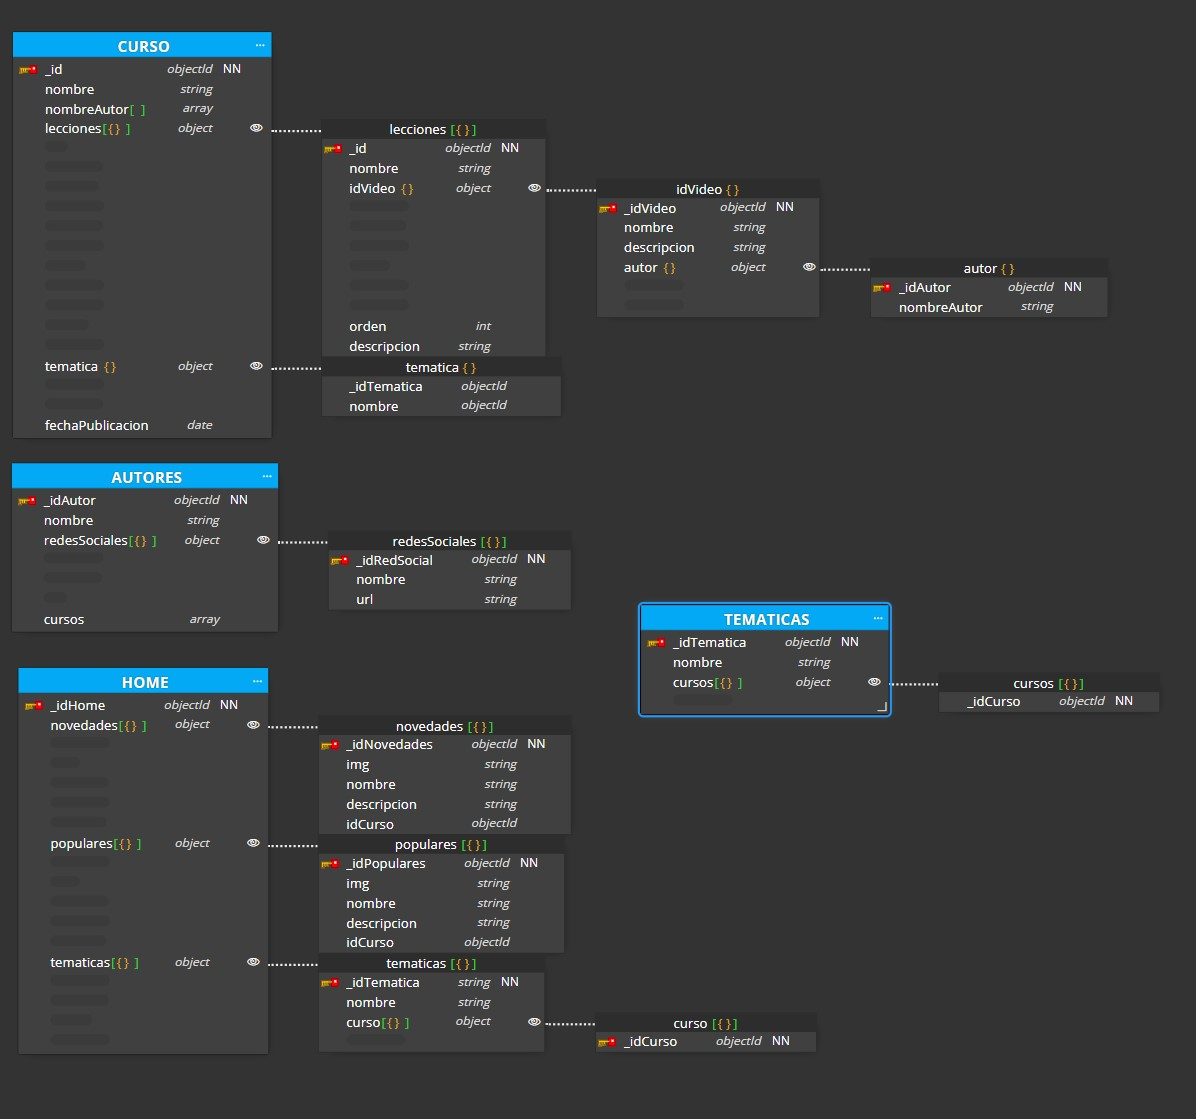
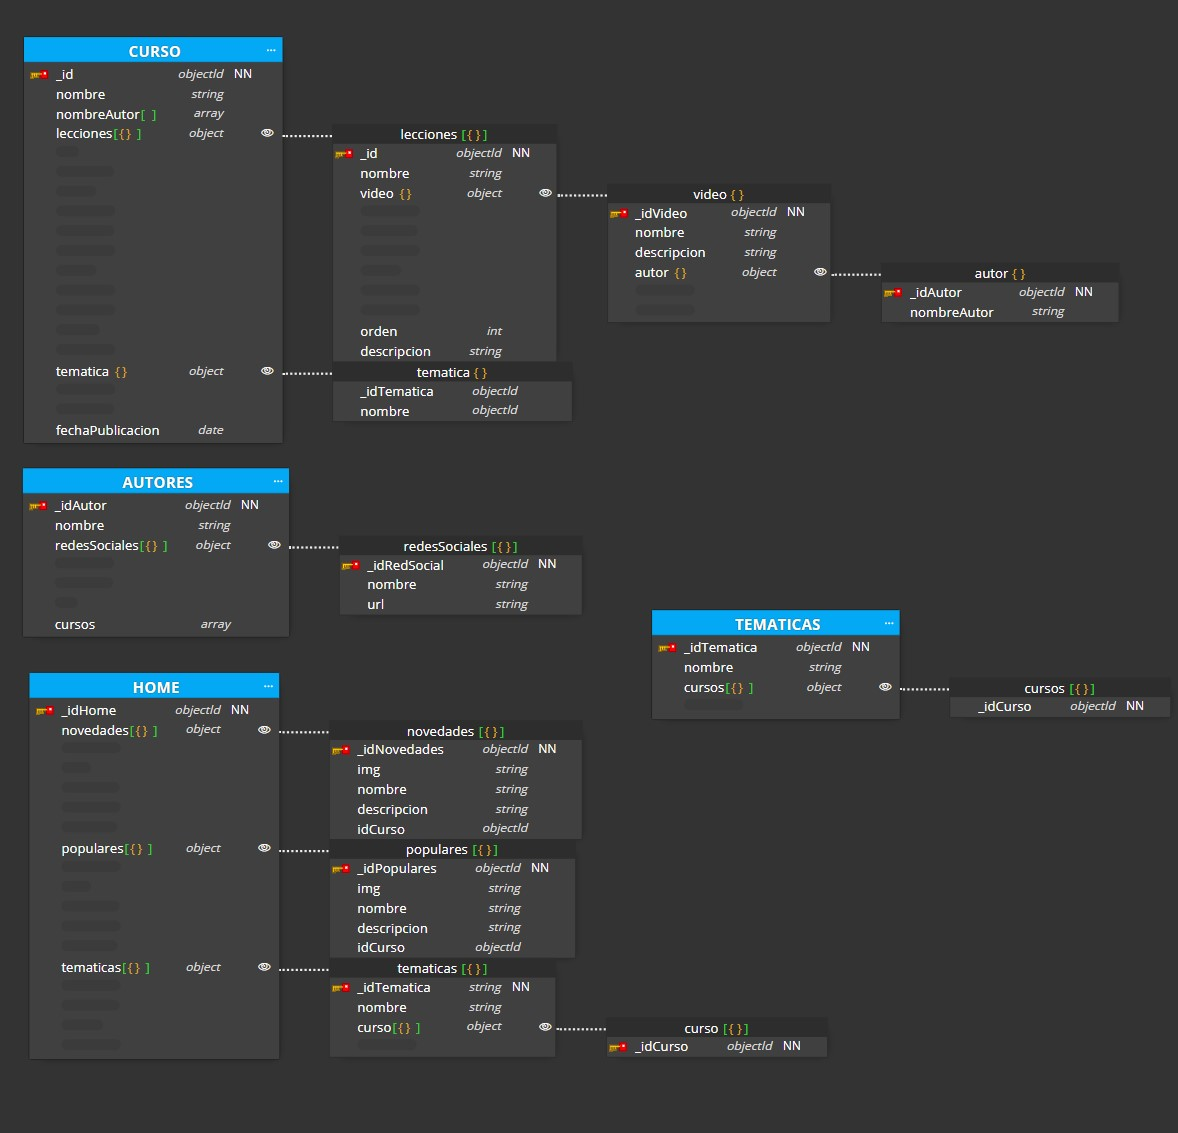
basic case done

diff --git a/01-ModeladoDocumental/00-ModeladoBásico/README.md b/01-ModeladoDocumental/00-ModeladoBásico/README.md
@@ -2,4 +2,26 @@
 
 ## Caso Básico
 
-El caso básico...
+Para los requisitos del caso básico, he planteado el siguiente modelo:
+
+![CasoBásico](./content/modeladoBasicoSergioGordillo.jpg)
+
+· La entidad Curso tiene un array de objetos llamada lecciones. Las lecciones van a ser críticas en la aplicación, interesa que se carguen pronto, ya que van a tener muchas lecturas. Por ello, dado que un curso puede tener muchas lecciones, considero que lo mejor en este caso es embeber las lecciones dentro de la colección Curso.
+
+· Dentro del documento de Lecciones, que es un array de objetos, vamos a tener el orden de la lección (un entero que nos permitirá tener ordenadas las lecciones del curso) y el vídeo, que a su vez lo tenemos embebido, para facilitar la carga rápida. Dado que cada vídeo puede tener un sólo autor y no queremos cargar todos los datos del autor, en este caso he utilizado el Subset Pattern. En este documento sólo tenemos el id del autor y su nombre.
+
+· El Subset Pattern ha sido utilizado también en la colección Curso, ya que vamos a mostrar menos información de las temáticas que están embebidas en la colección Curso que toda la información que tenemos si accedemos directamente a la colección Temáticas.
+
+· En el caso de la colección Autores, embebemos el documento redes sociales.
+
+· En el caso de la colección Home, embebemos tres documentos, que son arrays de objetos: novedades, populares y temáticas. 
+
+· Para el caso de las Novedades, ofrecemos la resolución del problema de los últimos 5 cursos publicados mediante la base de datos, aunque pensando en una solución que combine caché con base de datos: podemos tener los cursos actualizados en la Base de Datos pero que luego los cachee el servidor a fin de evitar consultas innecesarias, y que sólo se haga una consulta para actualizar los 5 últimos cursos publicados cada vez que haya habido una actualización del documento (es decir, que se haya publicado un nuevo curso).
+
+· Para el caso de los cursos más populares, utilizamos el Computed Pattern, ya que me interesa que el cálculo de la puntuación de los cursos más populares se realice con poca frecuencia mediante un proceso batch (por ejemplo, una vez al día). De esta forma, estoy optimizando el rendimiento de la aplicación.
+
+· Por otro lado, en el documento embebido temáticas, mostraremos según el diseño que se ofrece en el enunciado las distintas temáticas (Frontend, Backend etc.) con los cursos más recientes de dichas temáticas (para ello en la Colección Curso tenemos un campo que es fechaPublicación.)
+
+· Y, en cuanto a colecciones, tenemos también la colección Temáticas dónde se pueden consultar todas las temáticas que hay con sus respectivos cursos, a los que se puede acceder directamente debido a que tengo el id de cada Curso. 
+
+· En líneas generales, en este ejercicio de modelado, podemos observar que se ha priorizado el anidamiento sobre la referencia, dado que tenemos pocos elementos en la relación, pequeños y que se van a usar mucho (por ejemplo, cada curso tendrá entre 1 y 20 vídeos).
